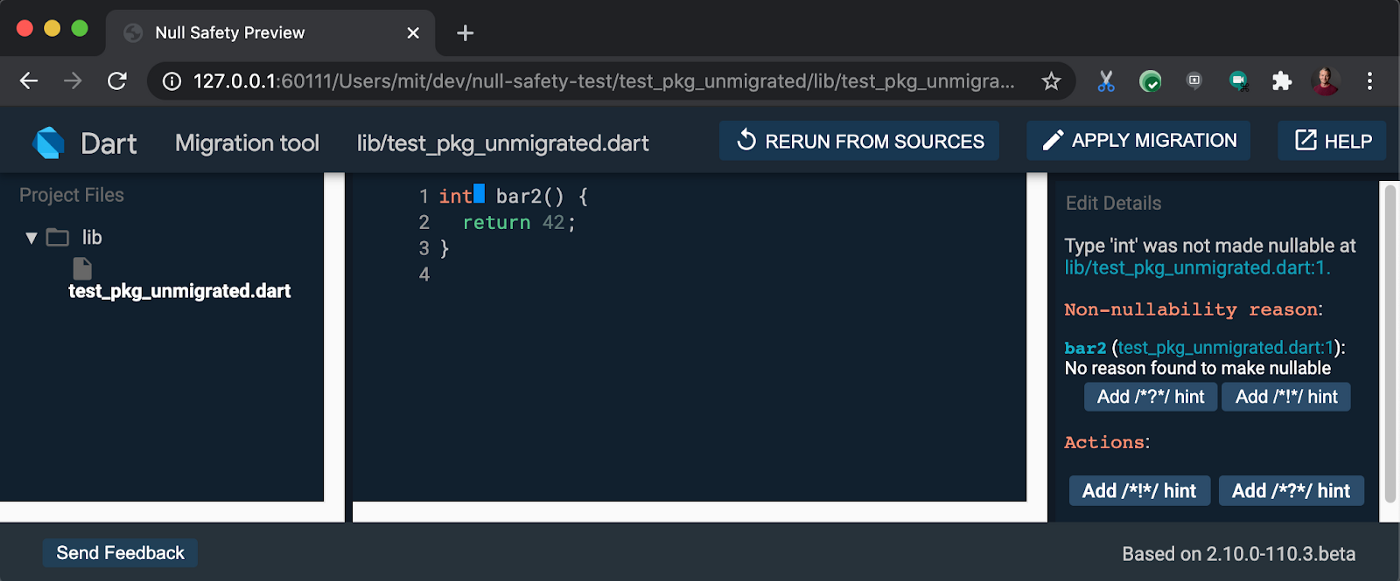
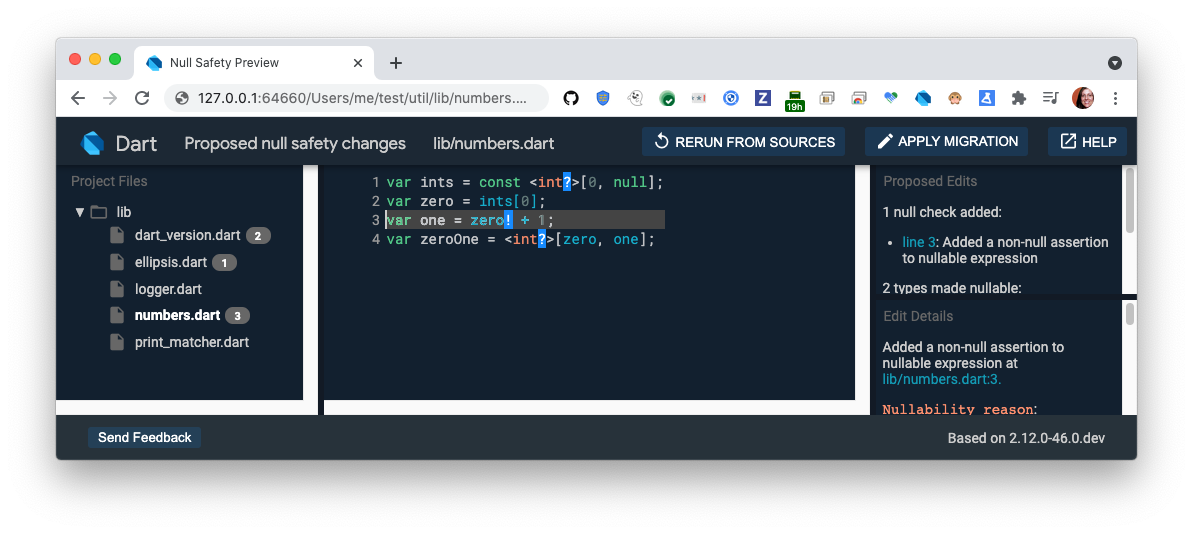
Add details on using the migration tool
Also refine text throughout, and update the migration tool screenshot.

diff --git a/src/null-safety/migration-guide.md b/src/null-safety/migration-guide.md
@@ -12,13 +12,14 @@ Please give us feedback at
 This page describes how and when to migrate your code to [null safety][].
 Here are the basic steps for migrating each package that you own:
 
-1. **Wait** for the packages
+1. [**Wait**](#step1-wait) for the packages
    that you depend on to migrate.
-2. **Migrate** your package's code,
+2. [**Migrate**](#step2-migrate) your package's code,
    preferably using the interactive migration tool.
-3. **Test** to make sure your changes work.
+3. [**Test**](#step3-test) to make sure your changes work.
 4. If the package is already on pub.dev,
-   **publish** the null-safe version as a **prerelease** version.
+   [**publish**](#step4-publish) the null-safe version
+   as a **prerelease** version.
 
 {{ site.alert.info }}
   **Migrating an app is the same as migrating a package.**
@@ -32,15 +33,8 @@ Here are the basic steps for migrating each package that you own:
 [null safety]: /null-safety
 
 ![Screenshot of migration tool](/null-safety/migration-tool.png)
-_This interactive tool (`dart migrate`) can simplify migration to null safety._
+_The interactive migration tool can simplify migration to null safety._
 
-**_[PENDING: flutter-specific stuff?
-Only things kevmoo's run into:
---[no-]sound-null-safety (probably applies to `dart` as well)
-IDE launch options
-flutter run, flutter test flag order might be slightly different.
-pub run --enable-experiment=non-nullable test
-aka dart test --enable-experiment=non-nullable]_**
 
 ## 1. Wait to migrate {#step1-wait}
 
@@ -57,13 +51,20 @@ For example, if you predict that a function will take a nullable parameter but
 the package migrates it to be non-nullable,
 then passing a nullable argument becomes a compile error.
 
+This section tells you how to
+check your package's dependencies
+by temporarily opting into null safety
+and using the `dart pub outdated` command in null-safety mode.
 
-### Switch to a beta release
+{{ site.alert.warn }}
+  These instructions assume your code is under **source control**,
+  so that you can easily undo any changes.
+{{ site.alert.end }}
 
-Start the migration process by switching to the **latest beta release**
-of either the Dart SDK or the Flutter SDK,
-and then updating your pubspec to match.
+### Switch to a 2.12 beta release
 
+**Switch to the latest beta release**
+of either the Dart SDK or the Flutter SDK.
 How you get the latest beta release depends on whether
 you use the Flutter SDK:
 
@@ -79,29 +80,29 @@ $ flutter upgrade
 
 [Dart SDK archive]: /tools/sdk/archive#beta-channel
 
-Next, **update your pubspec** to the version of Dart you're using.
-For example, say you're using 2.12.0-18.0.beta:
-
-```terminal
-$ dart --version
-Dart SDK version: 2.12.0-18.0.beta (beta)... [PENDING: update version string!]
-```
-
-Update the `pubspec.yaml` file to have that version as a lower constraint:
-***[PENDING: Is it really necessary to match the release?
-Can we just use 2.12.0-0?]***
-
-```yaml
-environment:
-  sdk: '>=2.12.0-18.0.beta <3.0.0'
-```
-
-
 {{ site.alert.warn }}
   If you return to working on production code, remember to
   **switch back to a stable release**
   (for example, by running `flutter channel stable`).
 {{ site.alert.end }}
+
+
+### Opt into null safety
+
+Setting the minimum SDK constraint to 2.12 (or a later version)
+opts the packaging into null safety by
+setting the [language version][] to at least 2.12.
+
+**Update `pubspec.yaml`** to use a 2.12 release as
+the minimum SDK constraint:
+
+```yaml
+environment:
+  sdk: '>=2.12.0-0 <3.0.0'
+```
+
+
+[language version]: /guides/language/evolution#language-versioning
 
 
 ### Check dependency status
@@ -119,9 +120,9 @@ Otherwise, use the **Resolvable** column to find
 null-safe releases, if they exist.
 
 For example, in the following output for a simple package,
-the green, checkmarked versions support null safety:
+the green checkmarked versions support null safety:
 
-![Output of dart pub outdated, showing PENDING](/null-safety/pub-outdated-output.png)
+![Output of dart pub outdated, showing that examples_util has no releases with null safety support, but pedantic and test do](/null-safety/pub-outdated-output.png)
 
 Here are the steps to take before migrating this package to sound null safety:
 
@@ -129,9 +130,16 @@ Here are the steps to take before migrating this package to sound null safety:
 2. Update `pubspec.yaml` to use the latest compatible releases of
    `pedantic`, `test`, and `examples_util`
    (as listed in the **Resolvable** column).
+   For example, the new dev dependencies might look like this:
+   ```dart
+dev_dependencies:
+  examples_util: ^0.0.3-nullsafety.0
+  pedantic: ^1.10.0-nullsafety.3
+  test: ^1.16.0-nullsafety.9
+```
 3. Run `dart pub upgrade`.
-4. Run `dart pub outdated --mode=null-safety` once more,
-   to make sure that all dependencies are null safe.
+4. Run `dart pub outdated --mode=null-safety` again,
+   to make sure that all dependencies are null safe and up-to-date.
 
 {{ site.alert.info }}
   **Why do all dependencies need to support null safety?**
@@ -170,14 +178,15 @@ The migration tool takes a package of null-unsafe Dart code
 and converts it to null safety.
 
 Before running the tool,
-make sure you're using a 2.12 beta release (or later):
+make sure you're using the latest 2.12 beta release
+of the Dart SDK:
 
 ```terminal
 $ dart --version
-Dart SDK version: 2.12.0-18.0.beta (beta)... [PENDING: check version #/string!]
+Dart SDK version: 2.12.0-XX.0.beta (beta)...
 ```
 
-Then update your `pubspec.yaml` file:
+Next, update your `pubspec.yaml` file:
 
 * **Keep any null-safe package versions** you chose when you
   [checked dependency status](#check-dependency-status) in step 1.
@@ -192,7 +201,7 @@ environment:
 $ dart pub get
 ```
 
-Next, start the migration tool by running the `dart migrate` command
+Now, start the migration tool by running the `dart migrate` command
 in the directory that contains the package's `pubspec.yaml` file:
 
 ```terminal
@@ -217,33 +226,117 @@ where you can guide the migration process:
 For every variable and type annotation,
 you can see what nullability the tool infers.
 For example, in the preceding screenshot,
-the tool infers that the `bar2()` function returns a non-nullable type (`int`).
+the tool infers that the `ints` list (previously a list of `int`)
+in line 1 is nullable, and thus should be a list of `int?`.
 
-{{ site.alert.tip }}
-  To see the reason for each change (or non-change),
-  click the type.
-{{ site.alert.end }}
+
+#### Understanding migration results
+
+To see the reasons for each change (or non-change),
+click its line number in the **Proposed Edits** pane.
+The reasons appear in the **Edit Details** pane.
+
+For example, consider the following code,
+from before null safety:
+
+```dart
+var ints = const <int>[0, null];
+var zero = ints[0];
+var one = zero + 1;
+var zeroOne = <int>[zero, one];
+```
+
+The default migration is backward compatible but not ideal:
+
+```dart
+var ints = const <int?>[0, null];
+var zero = ints[0];
+var one = zero! + 1;
+var zeroOne = <int?>[zero, one];
+```
+
+By clicking line 3, you can see the migration tool's reasons for
+adding the `!`.
+But if you know that `zero` can't be null,
+then you can improve the migration result.
+
+
+#### Improving migration results
 
 When analysis infers the wrong nullability,
-you can override its choice by inserting temporary `/*?*/` and `/*!*/` markers.
+you can override its proposed edits by inserting temporary
+`/*?*/` and `/*!*/` markers:
 
-* In the tool UI, you can insert these markers using the
+* In the **Edit Details** pane of the migration tool,
+  you can insert these markers using the
   **Add `/*?*/` hint** and **Add `/*!*/` hint** buttons.
-* Alternatively, switch back to your editor and change the code yourself,
+
+  These buttons add comments to your file immediately,
+  and there's no **Undo**.
+  If you don't want a hint that the tool inserted,
+  you can use your usual code editor to remove it.
+
+* You can use an editor to add these markers,
   even while the tool is still running.
+  Because your code hasn't opted into null safety yet,
+  you can't use new null-safety features.
+  You can, however, make changes like refactoring
+  that don't depend on null-safety features.
+
   When you've finished editing your code,
   click **Rerun from sources** to pick up your changes.
 
-{{ site.alert.important }}
-  Don't use new null safety features yet.
-  Your code is still null-unsafe for now.
-{{ site.alert.end }}
+A single hint can have ripple effects elsewhere in the code.
+In the example from before,
+adding a `/*!*/` marker where `zero` is assigned its value (on line 2)
+makes the migration tool infer the type of `zero` as `int?` instead of `int`.
+This type change can affect code that directly or indirectly uses `zero`.
+
+```dart
+var zero = ints[0]/*!*/;
+```
+
+With the above hint, the migration tool changes its proposed edits,
+as the following table shows.
+Line 3 no longer has a `!` after `zero`,
+and in line 4 `zeroOne` is inferred to be
+a list of `int`, not `int?`.
+
+<table markdown="1">
+<tr>
+<th>First migration</th>
+<th>Migration with hint</th>
+</tr>
+<tr markdown="1">
+  <td markdown="1">
+```dart
+var ints = const <int?>[0, null];
+var zero = ints[0];
+var one = zero! + 1;
+var zeroOne = <int?>[zero, one];
+```
+  </td>
+  <td markdown="1">
+```dart
+var ints = const <int?>[0, null];
+var zero = ints[0]/*!*/;
+var one = zero + 1;
+var zeroOne = <int>[zero, one];
+```
+  </td>
+</tr>
+</table>
+
+#### Applying changes
 
 When you like all of the changes
-that the migration tool proposes &mdash; all of the
-`?`, `required`, `!`, and other changes &mdash; click
-**Apply migration** to tell the tool to save the changes.
-Congratulations, your package is migrated!
+that the migration tool proposes, click
+**Apply migration** to tell the tool to save the migrated code
+and to update the minimum SDK in your pubspec.
+
+The next step is to [test your code](#step3-test).
+Then, if you've published it on pub.dev,
+[publish a null-safe prerelease](#step4-publish).
 
 
 ### Migrating by hand
@@ -277,7 +370,7 @@ To migrate a package by hand, follow these steps:
    setting the language version to 2.12 beta or later:
    ```yaml
 environment:
-  sdk: '>=2.12.0-18.0.beta <3.0.0' [PENDING: check version; would 2.12.0-0 work?]
+  sdk: '>=2.12.0-0 <3.0.0'
 ```
 
 2. Update dependencies: <br>
